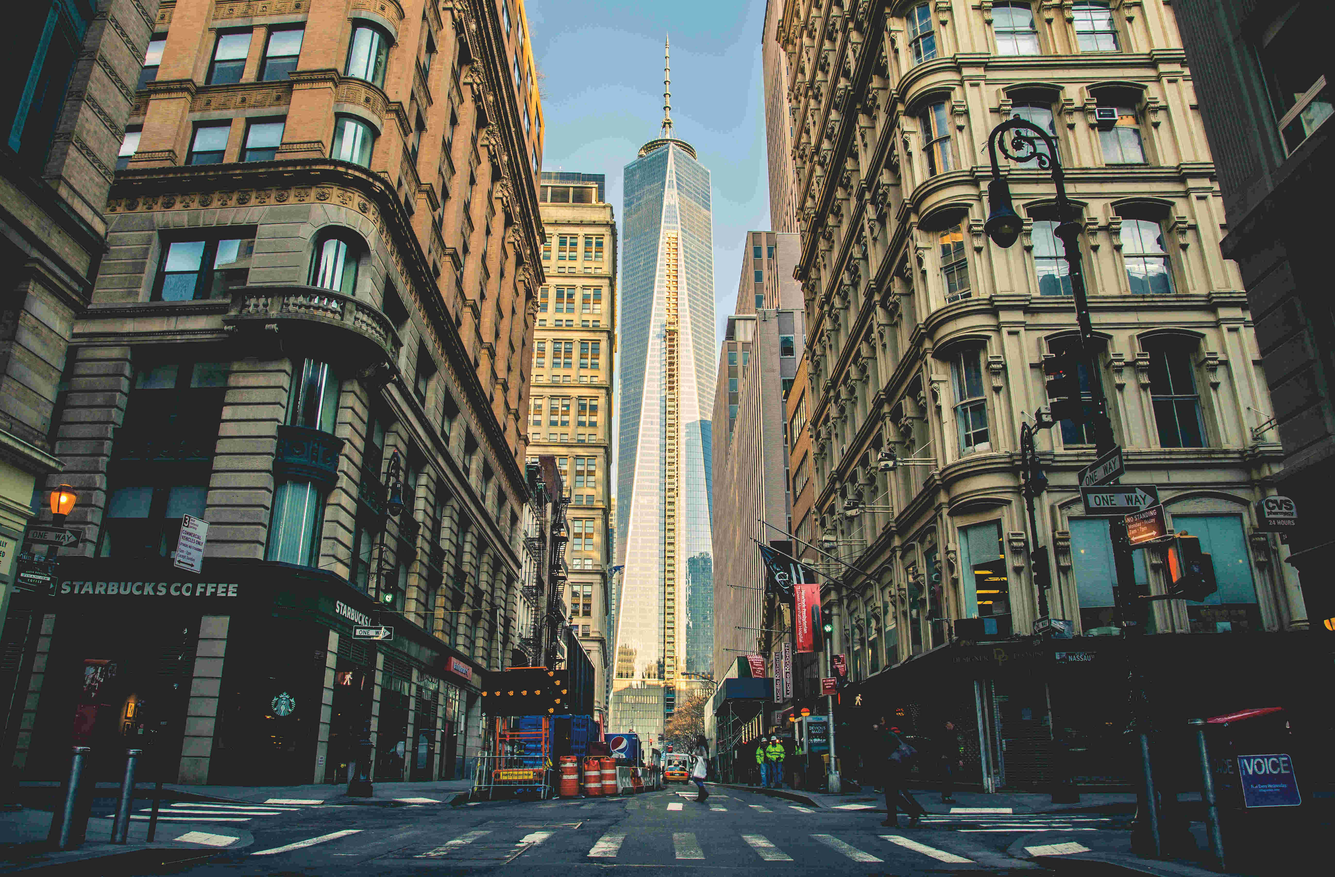
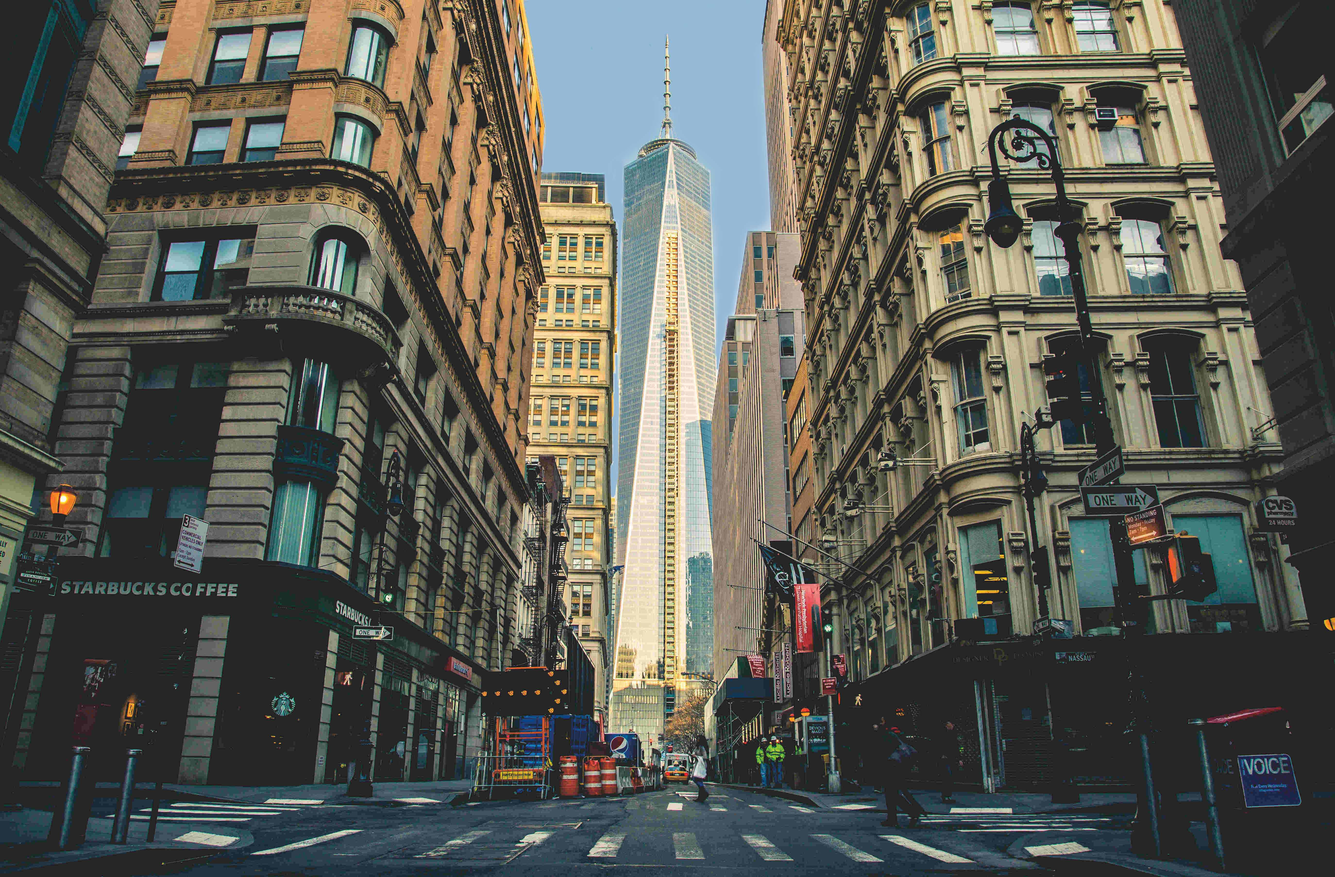
update9.5

diff --git a/css/sc.css b/css/sc.css
@@ -1,1 +1,1 @@
[2 lines of base64/hex data omitted]

diff --git a/index.html b/index.html
@@ -1,5 +1,5 @@
 <!DOCTYPE html>
-<html lang="zh-Hans-CN">
+<html lang="zh-Hans">
 
 <head>
 	<meta charset="utf-8">
@@ -65,7 +65,7 @@
 					</div>
 				</div>
 				<div class="item slide-height">
-					<img src="img/bg.jpg" alt="硅谷" class="img-responsive">
+					<img src="img/bg2.jpg" alt="硅谷" class="img-responsive">
 					<div class="carousel-caption carousel-slogan">
 						<div class="slogan">
 							<h2><span class="text_color slogan-strong">Opportunity For Everybody<br>每个人都有机会成为更好的自己</span></h2>
@@ -73,7 +73,7 @@
 					</div>
 				</div>
 			</div>
-
+			
 			<a class="left carousel-control" href="#carousel-example-generic" role="button" data-slide="prev">
 				<span class="glyphicon glyphicon-chevron-left" aria-hidden="true"></span>
 				<span class="sr-only">Previous</span>
@@ -155,7 +155,7 @@
 			<div class="col-lg-10 col-lg-offset-1">
 				<p class="heading-text">我们拥有包括Google、facebook、API.AI、The one 等几十家硅谷企业提供等实习岗位。</p>
 			</div>
-			<img src="img/project01.png" style="width:80%;height:auto" alt="机会与挑战">
+			<img src="img/intro.png" class="heading-img" alt="与雄厚科技实力和完美商业运作的第一次亲密接触">
 		</div>
 		<hr>
 		<br>
@@ -167,7 +167,7 @@
 				<p class="heading-text">我们将在业余时间带领实习生参观其他优秀的硅谷公司，加深对各行业对了解，探索更多科技公司发展奥秘；带领学生参加公益组织活动，深度融入美国生活。
 				</p>
 			</div>
-			<img src="img/project02.jpg" style="width:80%;height:auto" alt="机会与挑战">
+			<img src="img/sv-oppo (2).jpg" class="heading-img" alt="社会实践深度融入美国硅谷">
 		</div>
 		<hr>
 		<br>
@@ -179,6 +179,7 @@
 				<p class="heading-text">我们邀请斯坦福、哈佛、哥伦比亚大学、伯克利大学、纽约大学等常青藤名校校友为你写亲笔推荐信。我们创造主题社交活动，我们还会邀请各行业精英分享他们的经验和总结，让你深入了解硅谷。甚至你可以和来自全球各地的硅谷实习生住在同一套公寓里，分享每个人身上的故事，体验不一样等海外生活，收获人生。</p>
 				<br>
 			</div>
+			<img src="img/sv-oppo (1).jpg" class="heading-img" alt="硅谷／常青藤精英关系网">
 		</div>
 
 	</section>
@@ -195,168 +196,62 @@
 				<br>
 			</div>
 		</div>
-		<div class="row">
-			<div class="col-lg-8 col-lg-offset-2">
-				<div id="interns-carousel" class="carousel slide" data-ride="carousel">
-					<div class="carousel-inner" role="listbox">
-						<div class="item active">
-							<div class="row">
-								<div class="col-md-4">
-									<div class="wow bounceInUp" data-wow-delay="0.2s">
-										<div class="team boxed-grey interns-height">
-											<div class="inner">
-												<h5>Julie</h5>
-												<p class="subtitle">API.AI软件工程师</p>
-												<div class="avatar">
-													<img src="img/interns/alex.jpg" alt="Julie" class="img-responsive img-circle" />
-												</div>
-												<p class="format-text">因为这次实习经历让我顺利地拿到腾讯的offer，硅谷机会真的是一个非常锻炼人能力的机会，我很庆幸我在之后一切很顺利的职业发展，感谢硅谷机会。
-												</p>
-											</div>
-										</div>
-									</div>
-								</div>
-								<div class="col-md-4">
-									<div class="wow bounceInUp" data-wow-delay="0.5s">
-										<div class="team boxed-grey interns-height">
-											<div class="inner">
-												<h5>Ada</h5>
-												<p class="subtitle">Google前端开发</p>
-												<div class="avatar">
-													<img src="img/interns/ada.jpg" alt="Ada" class="img-responsive img-circle" />
-												</div>
-												<p class="format-text">根本不敢想象能有机会在Google实习，这里创造性的工作氛围给力我很多启发。
-												</p>
-											</div>
-										</div>
-									</div>
-								</div>
-								<div class="col-md-4">
-									<div class="wow bounceInUp" data-wow-delay="0.8s">
-										<div class="team boxed-grey interns-height">
-											<div class="inner">
-												<h5>Zac</h5>
-												<p class="subtitle">Facebook UX/UI设计师</p>
-												<div class="avatar">
-													<img src="img/interns/zac.jpg" alt="Zac" class="img-responsive img-circle" />
-												</div>
-												<p class="format-text">周围的人太优秀，逼着你不断突破自己的极限。在这里一个月感觉学到了别人一年也学不到的东西。
-												</p>
-											</div>
-										</div>
-									</div>
-								</div>
+		<div class="col-lg-10 col-lg-offset-1">
+			<div class="row">
+				<div class="col-md-3">
+					<div class="team boxed-grey interns-height">
+						<div class="inner">
+							<h5>Julie</h5>
+							<p class="subtitle">API.AI软件工程师</p>
+							<div class="avatar">
+								<img src="img/interns/alex.jpg" alt="Julie" class="img-responsive img-circle" />
 							</div>
+							<p class="format-text">因为这次实习经历让我顺利地拿到腾讯的offer，硅谷机会真的是一个非常锻炼人能力的机会，我很庆幸我在之后一切很顺利的职业发展，感谢硅谷机会。
+							</p>
 						</div>
-						<div class="item">
-							<div class="row">
-								<div class="col-md-4">
-									<div class="wow bounceInUp" data-wow-delay="0.2s">
-										<div class="team boxed-grey interns-height">
-											<div class="inner">
-												<h5>Julie</h5>
-												<p class="subtitle">API.AI软件工程师</p>
-												<div class="avatar">
-													<img src="img/interns/alex.jpg" alt="Julie" class="img-responsive img-circle" />
-												</div>
-												<p class="format-text">因为这次实习经历让我顺利地拿到腾讯的offer，硅谷机会真的是一个非常锻炼人能力的机会，我很庆幸我在之后一切很顺利的职业发展，感谢硅谷机会。
-												</p>
-											</div>
-										</div>
-									</div>
-								</div>
-								<div class="col-md-4">
-									<div class="wow bounceInUp" data-wow-delay="0.5s">
-										<div class="team boxed-grey interns-height">
-											<div class="inner">
-												<h5>Ada</h5>
-												<p class="subtitle">Google前端开发</p>
-												<div class="avatar">
-													<img src="img/interns/ada.jpg" alt="Ada" class="img-responsive img-circle" />
-												</div>
-												<p class="format-text">根本不敢想象能有机会在Google实习，这里创造性的工作氛围给力我很多启发。
-												</p>
-											</div>
-										</div>
-									</div>
-								</div>
-								<div class="col-md-4">
-									<div class="wow bounceInUp" data-wow-delay="0.8s">
-										<div class="team boxed-grey interns-height">
-											<div class="inner">
-												<h5>Zac</h5>
-												<p class="subtitle">Facebook UX/UI设计师</p>
-												<div class="avatar">
-													<img src="img/interns/zac.jpg" alt="Zac" class="img-responsive img-circle" />
-												</div>
-												<p class="format-text">周围的人太优秀，逼着你不断突破自己的极限。在这里一个月感觉学到了别人一年也学不到的东西。
-												</p>
-											</div>
-										</div>
-									</div>
-								</div>
+					</div>
+				</div>
+				<div class="col-md-3">
+					<div class="team boxed-grey interns-height">
+						<div class="inner">
+							<h5>Ada</h5>
+							<p class="subtitle">Google前端开发</p>
+							<div class="avatar">
+								<img src="img/interns/ada.jpg" alt="Ada" class="img-responsive img-circle" />
 							</div>
+							<p class="format-text">根本不敢想象能有机会在Google实习，这里创造性的工作氛围给力我很多启发。
+							</p>
 						</div>
-						<div class="item">
-							<div class="row">
-								<div class="col-md-4">
-									<div class="wow bounceInUp" data-wow-delay="0.2s">
-										<div class="team boxed-grey interns-height">
-											<div class="inner">
-												<h5>Julie</h5>
-												<p class="subtitle">API.AI软件工程师</p>
-												<div class="avatar">
-													<img src="img/interns/alex.jpg" alt="Julie" class="img-responsive img-circle" />
-												</div>
-												<p class="format-text">因为这次实习经历让我顺利地拿到腾讯的offer，硅谷机会真的是一个非常锻炼人能力的机会，我很庆幸我在之后一切很顺利的职业发展，感谢硅谷机会。
-												</p>
-											</div>
-										</div>
-									</div>
-								</div>
-								<div class="col-md-4">
-									<div class="wow bounceInUp" data-wow-delay="0.5s">
-										<div class="team boxed-grey interns-height">
-											<div class="inner">
-												<h5>Ada</h5>
-												<p class="subtitle">Google前端开发</p>
-												<div class="avatar">
-													<img src="img/interns/ada.jpg" alt="Ada" class="img-responsive img-circle" />
-												</div>
-												<p class="format-text">根本不敢想象能有机会在Google实习，这里创造性的工作氛围给力我很多启发。
-												</p>
-											</div>
-										</div>
-									</div>
-								</div>
-								<div class="col-md-4">
-									<div class="wow bounceInUp" data-wow-delay="0.8s">
-										<div class="team boxed-grey interns-height">
-											<div class="inner">
-												<h5>Zac</h5>
-												<p class="subtitle">Facebook UX/UI设计师</p>
-												<div class="avatar">
-													<img src="img/interns/zac.jpg" alt="Zac" class="img-responsive img-circle" />
-												</div>
-												<p class="format-text">周围的人太优秀，逼着你不断突破自己的极限。在这里一个月感觉学到了别人一年也学不到的东西。
-												</p>
-											</div>
-										</div>
-									</div>
-								</div>
+					</div>
+				</div>
+				<div class="col-md-3">
+					<div class="team boxed-grey interns-height">
+						<div class="inner">
+							<h5>Zac</h5>
+							<p class="subtitle">Facebook UX/UI设计师</p>
+							<div class="avatar">
+								<img src="img/interns/zac.jpg" alt="Zac" class="img-responsive img-circle" />
 							</div>
+							<p class="format-text">周围的人太优秀，逼着你不断突破自己的极限。在这里一个月感觉学到了别人一年也学不到的东西。
+							</p>
+
+						</div>
+					</div>
+				</div>
+				<div class="col-md-3">
+					<div class="team boxed-grey interns-height">
+						<div class="inner">
+							<h5>Galvin</h5>
+							<p class="subtitle">One Piece社群运营</p>
+							<div class="avatar">
+								<img src="img/interns/galvin.jpg" alt="Zac" class="img-responsive img-circle" />
+							</div>
+							<p class="format-text">在one piece实习二个半月，我接触到了全世界各地不同行业不同领域的人，而他们的共同点是：都在以各自的方式思考和利用新兴的技术。感谢职业导师Kiki的指导，我已经确定了自己的方向。
+							</p>
 						</div>
 					</div>
 				</div>
 			</div>
-			<a class="left carousel-control" href="#interns-carousel" role="button" data-slide="prev">
-				<span class="glyphicon glyphicon-chevron-left" aria-hidden="true"></span>
-				<span class="sr-only">Previous</span>
-				</a>
-			<a class="right carousel-control" href="#interns-carousel" role="button" data-slide="next">
-				<span class="glyphicon glyphicon-chevron-right" aria-hidden="true"></span>
-				<span class="sr-only">Next</span>
-			</a>
 		</div>
 
 	</section>
@@ -369,14 +264,11 @@
 			</p>
 			<br>
 		</div>
-		<img src="img/project02.jpg" style="width:80%;height:auto" alt="机会与挑战">
+		<img src="img/sv-oppo (3).jpg" class="heading-img" alt="机会与挑战">
 		<br>
 		<p class="heading-title">
 			<span class="heading-span">个性化定制发挥你的最大潜力</span>
 		</p>
-
-		</div>
-
 
 	</section>
 
@@ -396,62 +288,38 @@
 			</div>
 		</div>
 
-		<div class="container" >
+		<div class="container">
 			<div class="row">
-				<div class="col-lg-12">
-					<div class="boxed-grey" >
-						<h4>公司简介</h4>
-						<p class="format-text">
-							硅谷机会是硅谷第一站旗下一个对全球高校学生开放海外实习项目 ，让每个人得到一个机会去了解世界、突破自己是我们的价值观。
-						</p>
-						<p class="format-text">
-							硅谷第一站成立于美国硅谷Sunnuvale，是全球顶尖的企业家、创业家、政府机构和投资人的平台服务提供商。创办以来已经服务过硅谷、加州、纽约、北京、深圳、上海、广州、武汉、杭州等10个大中型城市。过去3年为全球100多家公司提供商业解决方案，简历了市场上领先地位，获得无数企业家的赞赏与信任。
-						</p>
-						<img src="img/svfirst_logo.png" style="width: 168px; height: 50px; text-align:center"><br>
-						<div class="widget-contact">
+				<div class="col-lg-10 col-lg-offset-1" boxed-grey>
 
+					<p class="format-text">
+						硅谷机会是硅谷第一站旗下一个对全球高校学生开放海外实习项目 ，让每个人得到一个机会去了解世界、突破自己是我们的价值观。
+					</p>
+					<p class="format-text">
+						硅谷第一站成立于美国硅谷Sunnuvale，是全球顶尖的企业家、创业家、政府机构和投资人的平台服务提供商。创办以来已经服务过硅谷、加州、纽约、北京、深圳、上海、广州、武汉、杭州等10个大中型城市。过去3年为全球100多家公司提供商业解决方案，简历了市场上领先地位，获得无数企业家的赞赏与信任。
+					</p>
+					<img src="img/svfirst_logo.png" alt="硅谷第一站logo">
+					<div class="widget-contact">
 						<address>
-							
 							<strong>官网：</strong>
 							<a href="http://svfirst.com/" target="_blank">svfirst.com</a>
 						</address>
 						<address>
-							<strong>地址：</strong>美国加利福尼亚州旧金山市奥林大道3165号
-							<br>&nbsp;&nbsp;&nbsp;&nbsp;&nbsp;&nbsp;&nbsp;&nbsp;&nbsp;&nbsp;&nbsp;美国加利福尼亚州圣荷西市布兰南街414号
-							<br> Address:3165 Olin Ave, San Jose, CA 95117, USA
-							<br>&nbsp;&nbsp;&nbsp;&nbsp;&nbsp;&nbsp;&nbsp;&nbsp;&nbsp;&nbsp;&nbsp;&nbsp; 414 Brannan Street, San Francisco, CA 94107
+							<strong>地址：</strong> 3165 Olin Ave, San Jose, CA 95117, USA
+							<br> &emsp;&emsp;&emsp; 414 Brannan Street, San Francisco, CA 94107
 						</address>
 						<address>
 							<strong>联系电话：</strong>(408)663-7982
 						</address>
 						<address>
-							<strong>E-mail：</strong>hi@svfirst.com
+							<strong>Email：</strong>hi@svfirst.com
 						</address>
 					</div>
-						<iframe src="http://www.google.cn/maps/embed?pb=!1m18!1m12!1m3!1d3172.923030855022!2d-121.95431768543678!3d37.320650845930594!2m3!1f0!2f0!3f0!3m2!1i1024!2i768!4f13.1!3m3!1m2!1s0x808fcae0a7a19311%3A0xa9b2a9d392f55b1e!2zMzE2NSBPbGluIEF2ZSwgU2FuIEpvc2UsIENBIDk1MTE3576O5Zu9!5e0!3m2!1szh-CN!2sjp!4v1504536083786"
-						 frameborder="0" style="width:90%;height:300px;border:0" allowfullscreen></iframe>
-					</div>
+					<iframe src="http://www.google.cn/maps/embed?pb=!1m18!1m12!1m3!1d3172.923030855022!2d-121.95431768543678!3d37.320650845930594!2m3!1f0!2f0!3f0!3m2!1i1024!2i768!4f13.1!3m3!1m2!1s0x808fcae0a7a19311%3A0xa9b2a9d392f55b1e!2zMzE2NSBPbGluIEF2ZSwgU2FuIEpvc2UsIENBIDk1MTE3576O5Zu9!5e0!3m2!1szh-CN!2sjp!4v1504536083786"
+					 frameborder="0" class="google-map" allowfullscreen></iframe>
 				</div>
-				<!--div class="col-lg-3">
-					<div class="widget-contact">
 
-						<address>
-							<strong>公司官网</strong><br>
-							<a href="http://svfirst.com/" target="_blank">硅谷第一站</a>
-						</address>
 
-						<address>
-							<strong>公司地址</strong><br> 地址
-							<br> 英文地址
-							<br>
-						</address>
-
-						<address>
-							<strong>联系电话</strong><br> 911
-						</address>
-
-					</div>
-				</div-->
 			</div>
 
 		</div>
